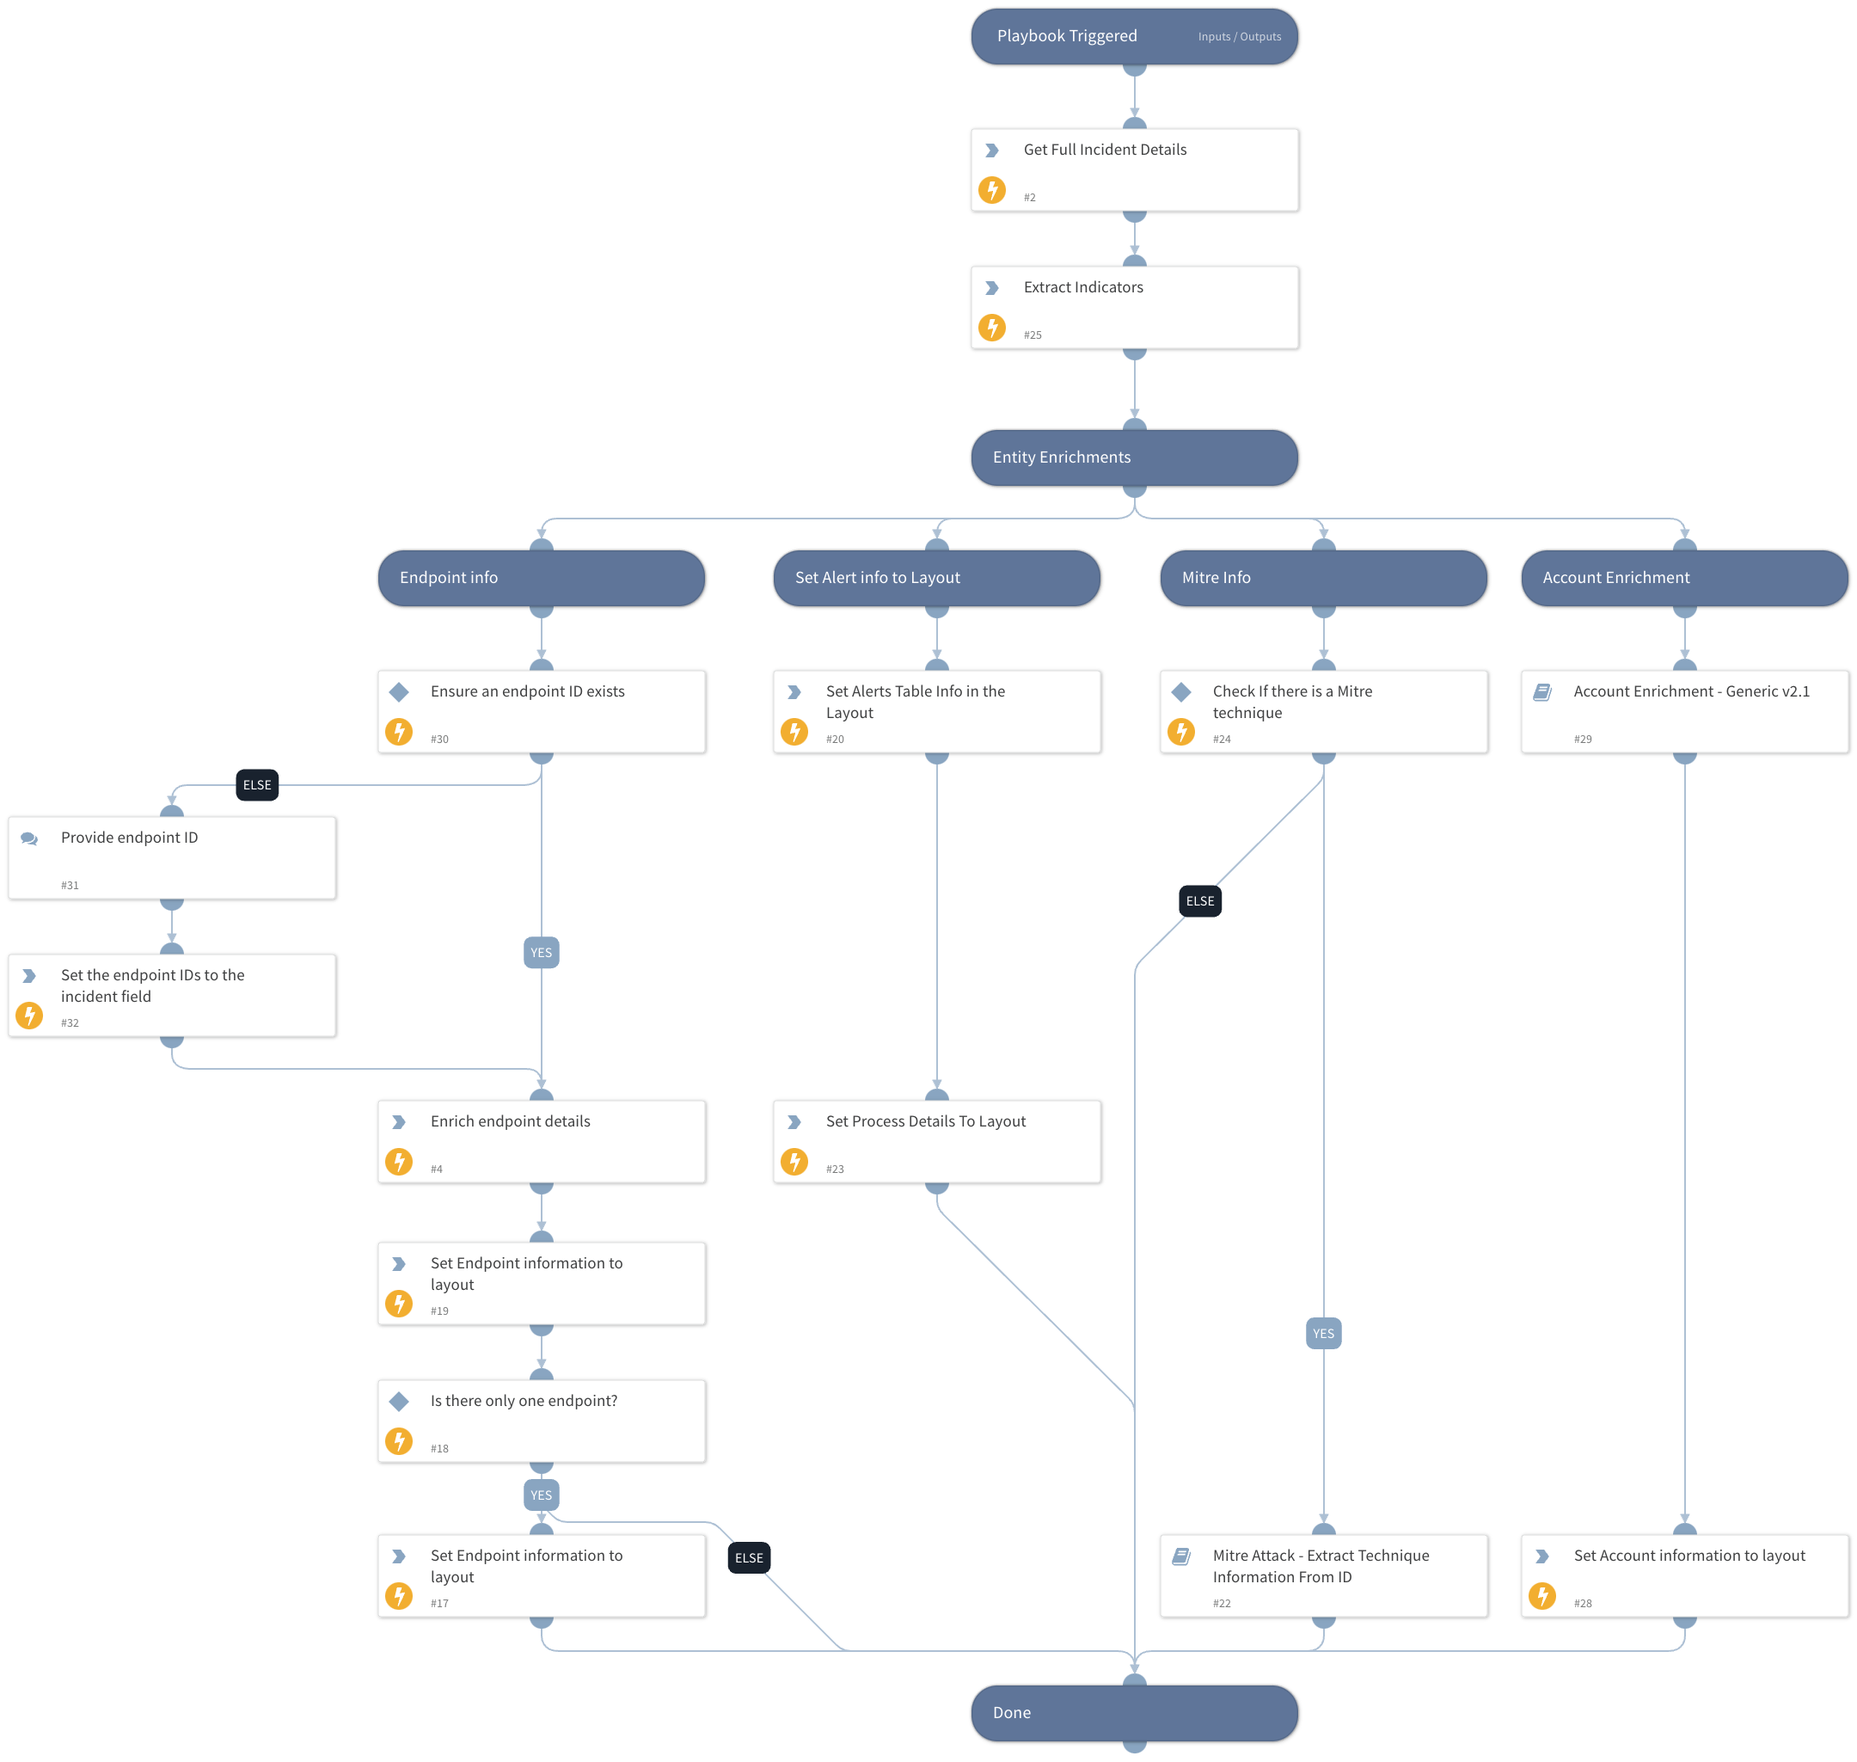
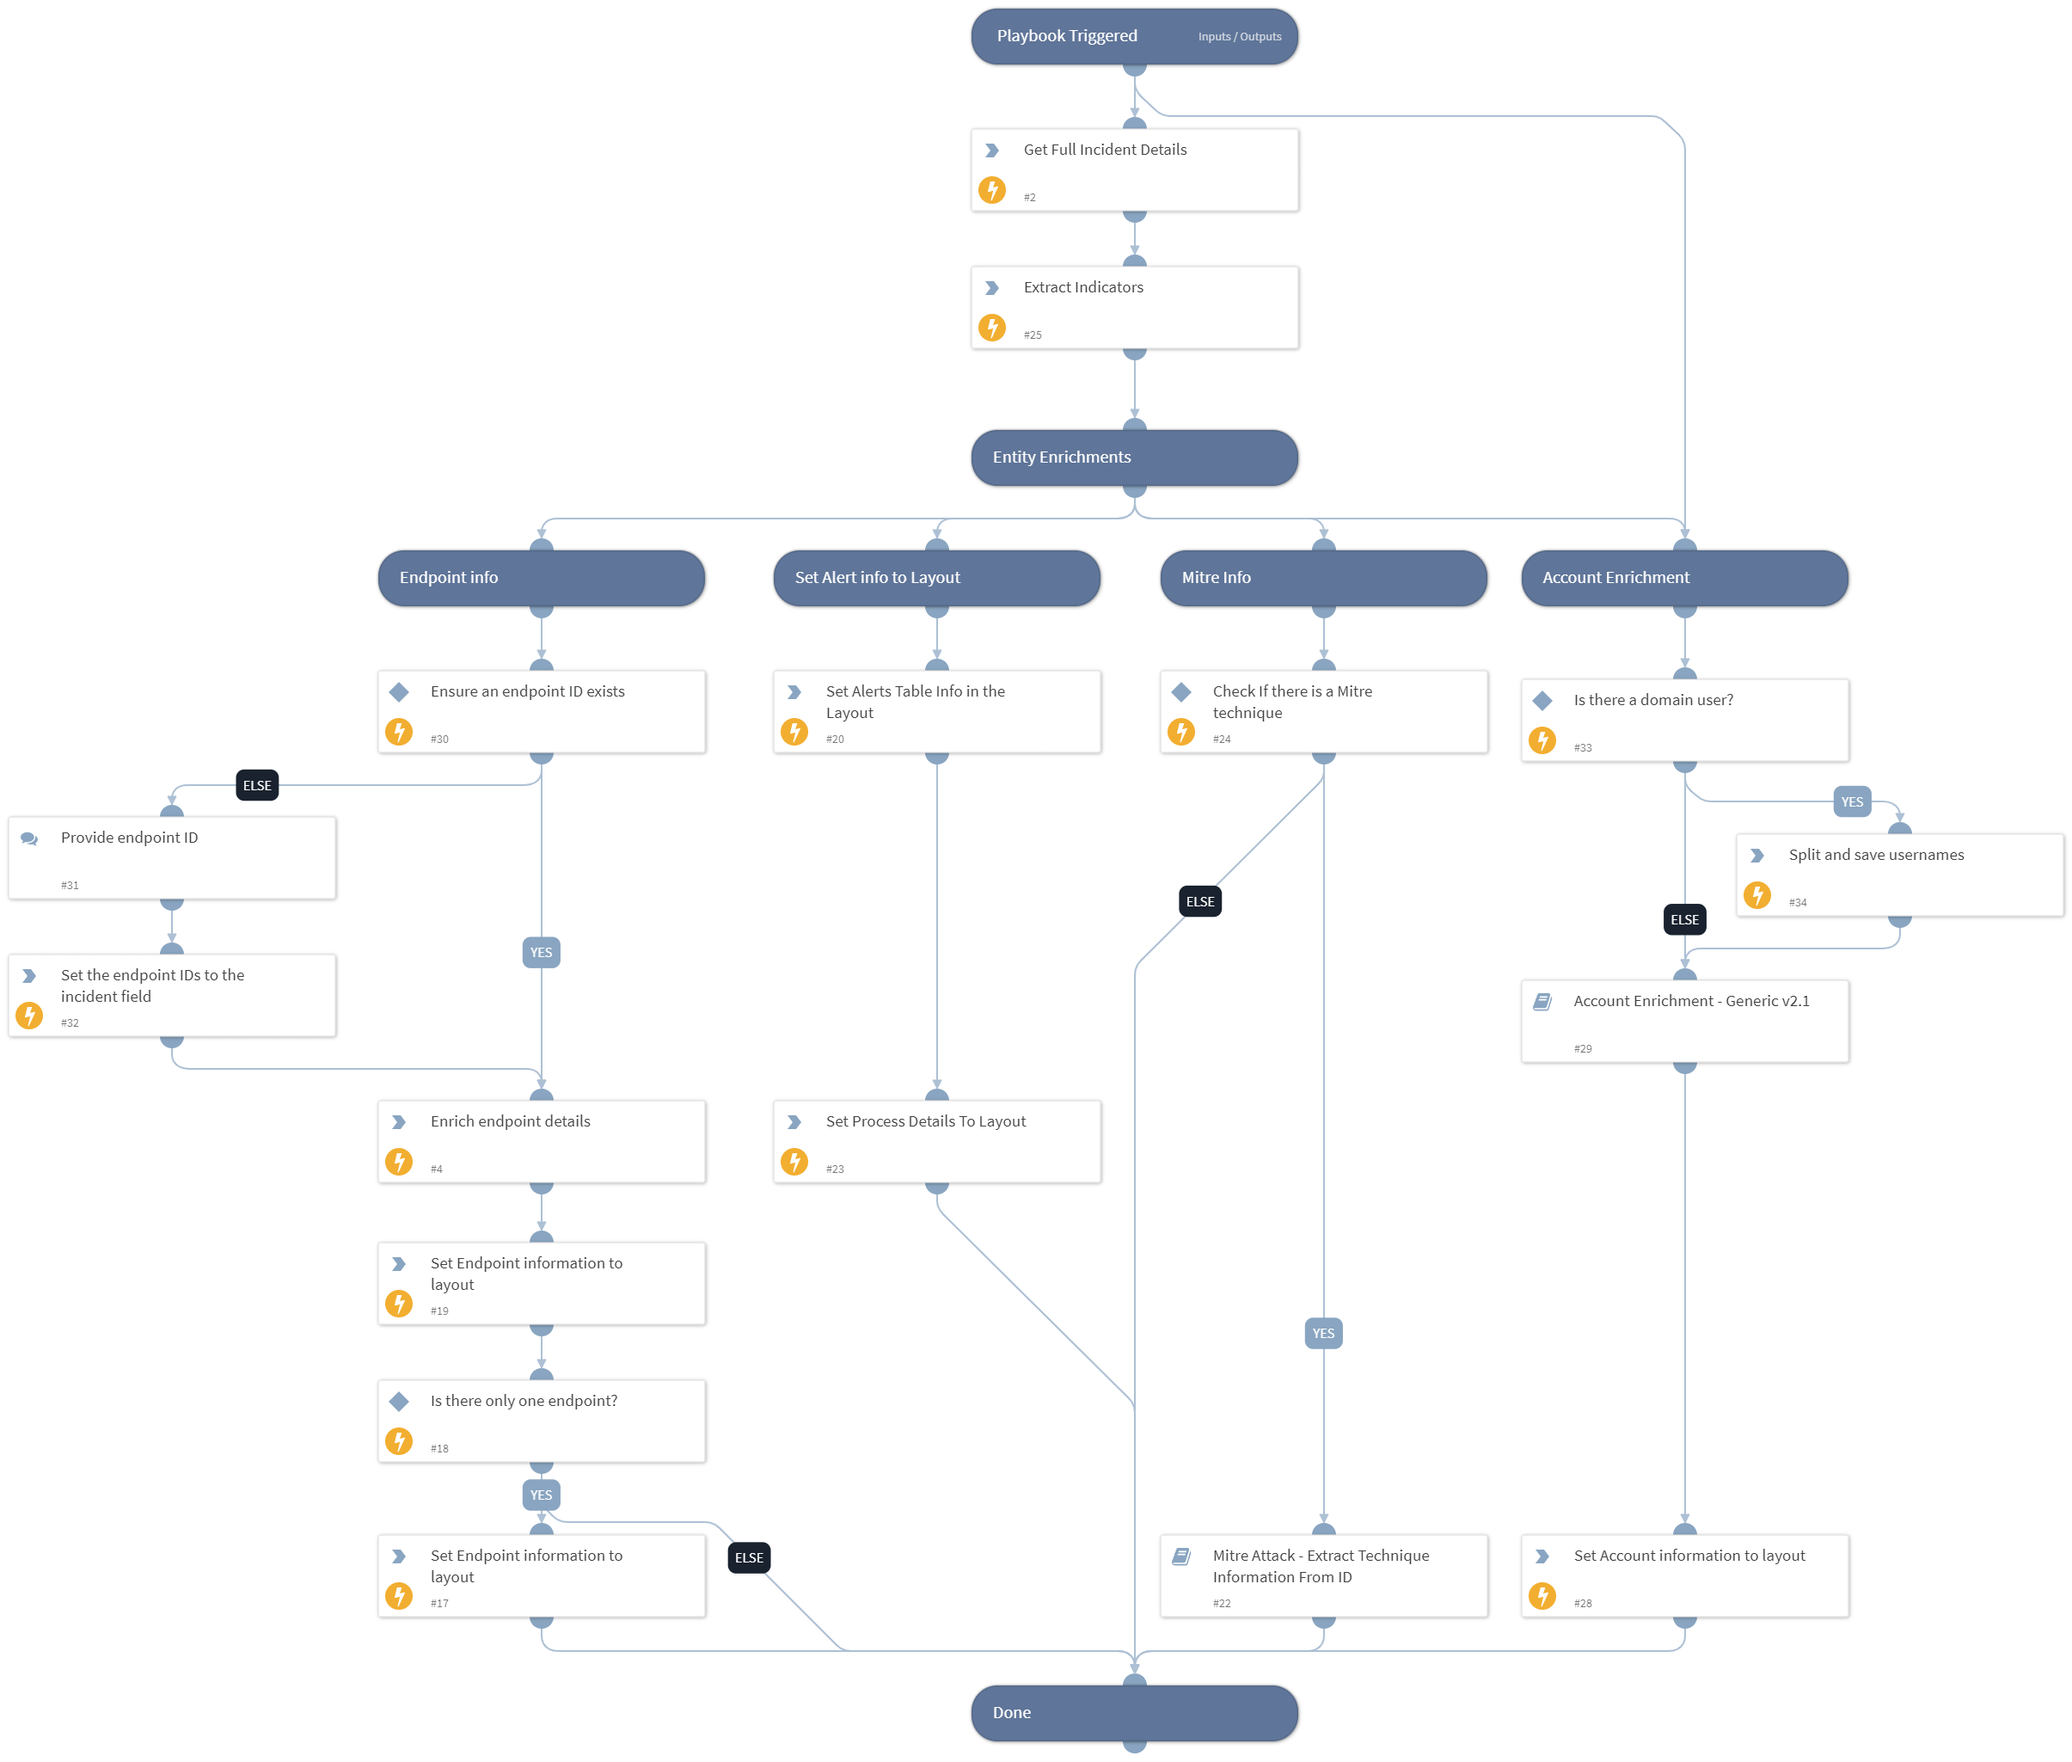
XDR Malware Enrichment - hotfix for usernames (split) (#29585)
* Updated playbook with hotfix where we split usernames from domains and append them to the username list of usernames for account enrichment

* Added RN

* remove irrelevant test

* Updated RN

* Bump pack from version CortexXDR to 5.1.6.

* Update Packs/CortexXDR/ReleaseNotes/5_1_6.md

---------

diff --git a/Packs/CortexXDR/ReleaseNotes/5_1_6.md b/Packs/CortexXDR/ReleaseNotes/5_1_6.md
@@ -1,0 +1,6 @@
+
+#### Playbooks
+
+##### Cortex XDR Malware - Incident Enrichment
+
+Added tasks to extract usernames from domain usernames in order to allow enrichment with both integrations that accept domain usernames and integrations that accept only usernames for enrichment.
